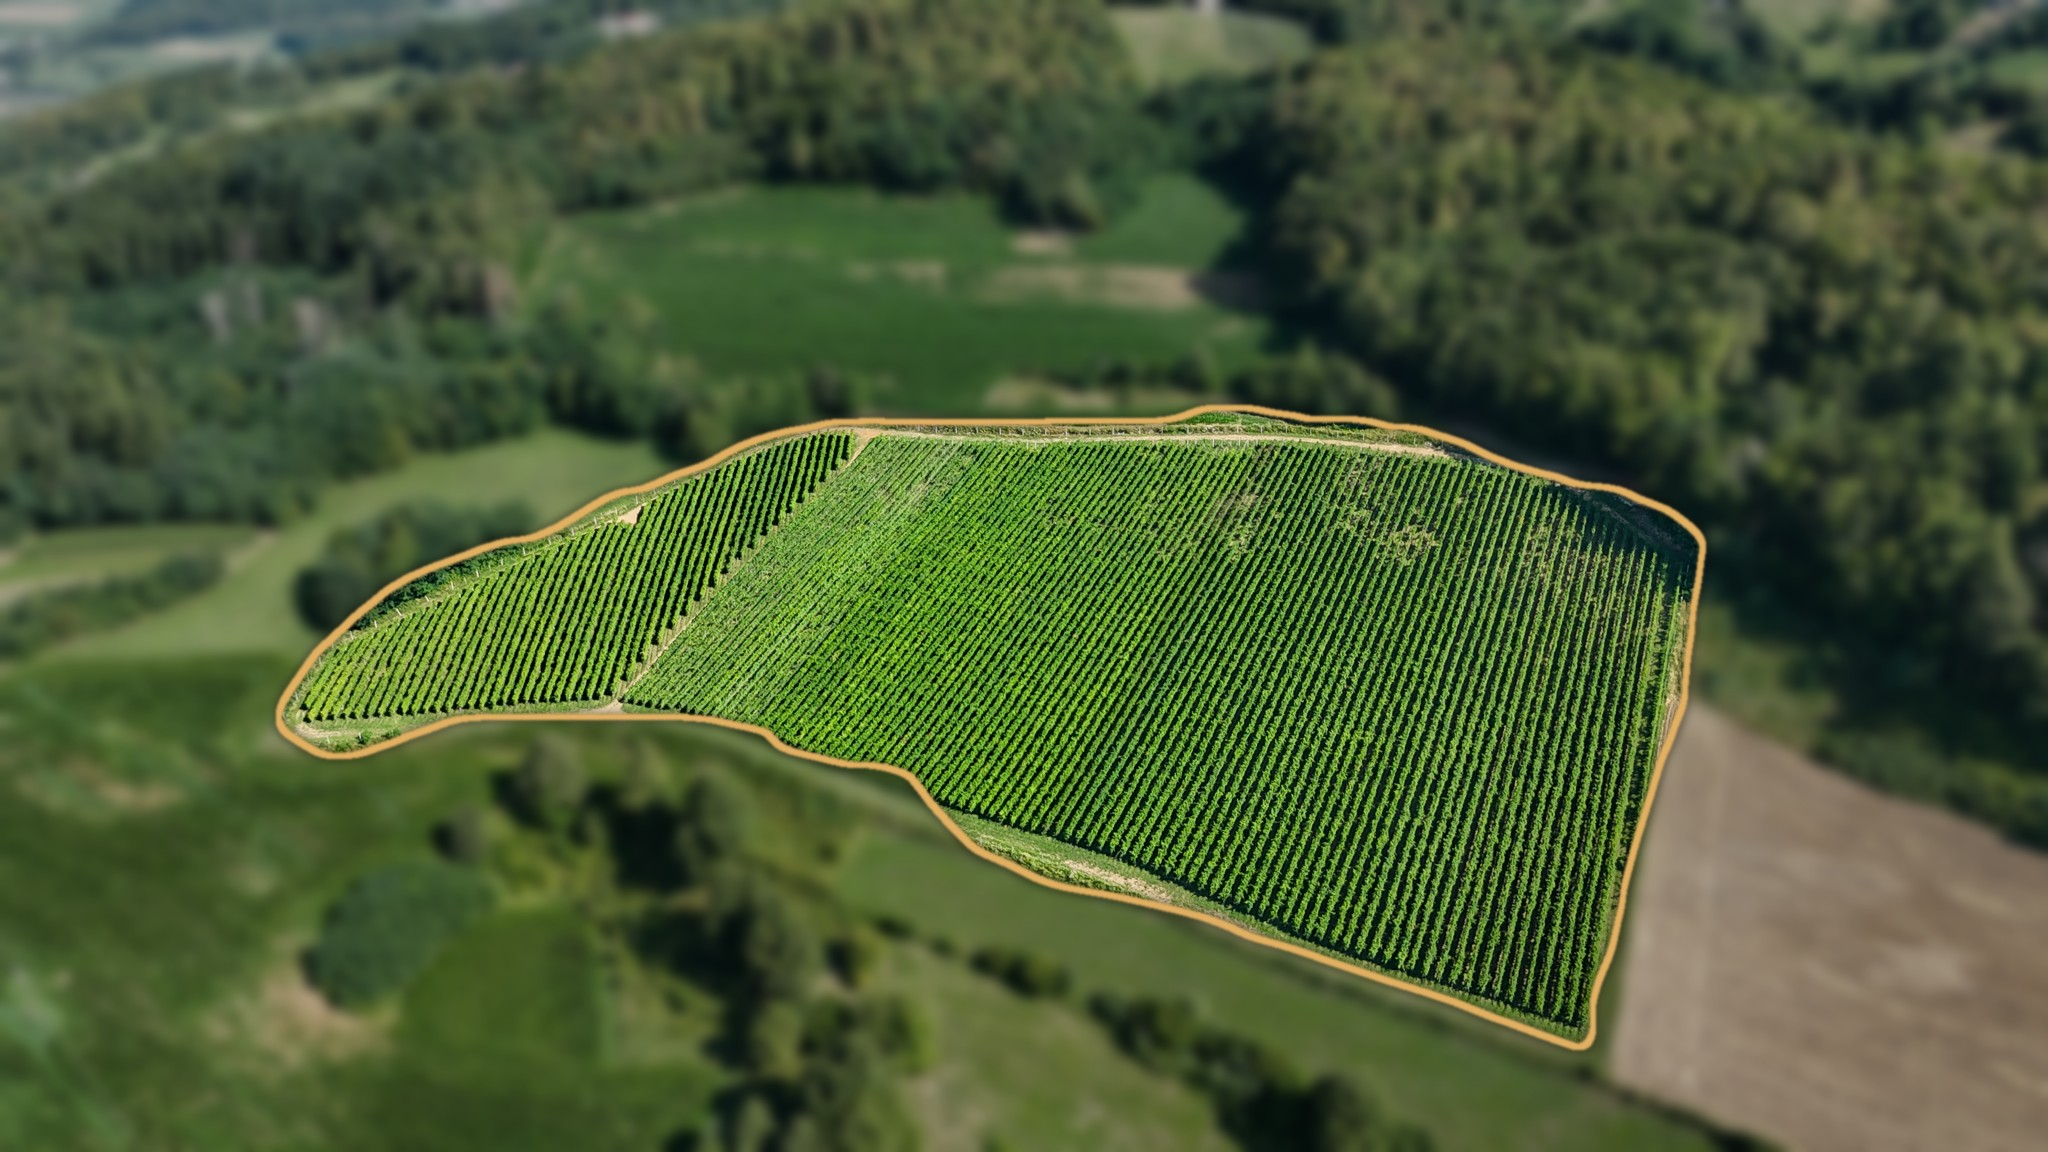
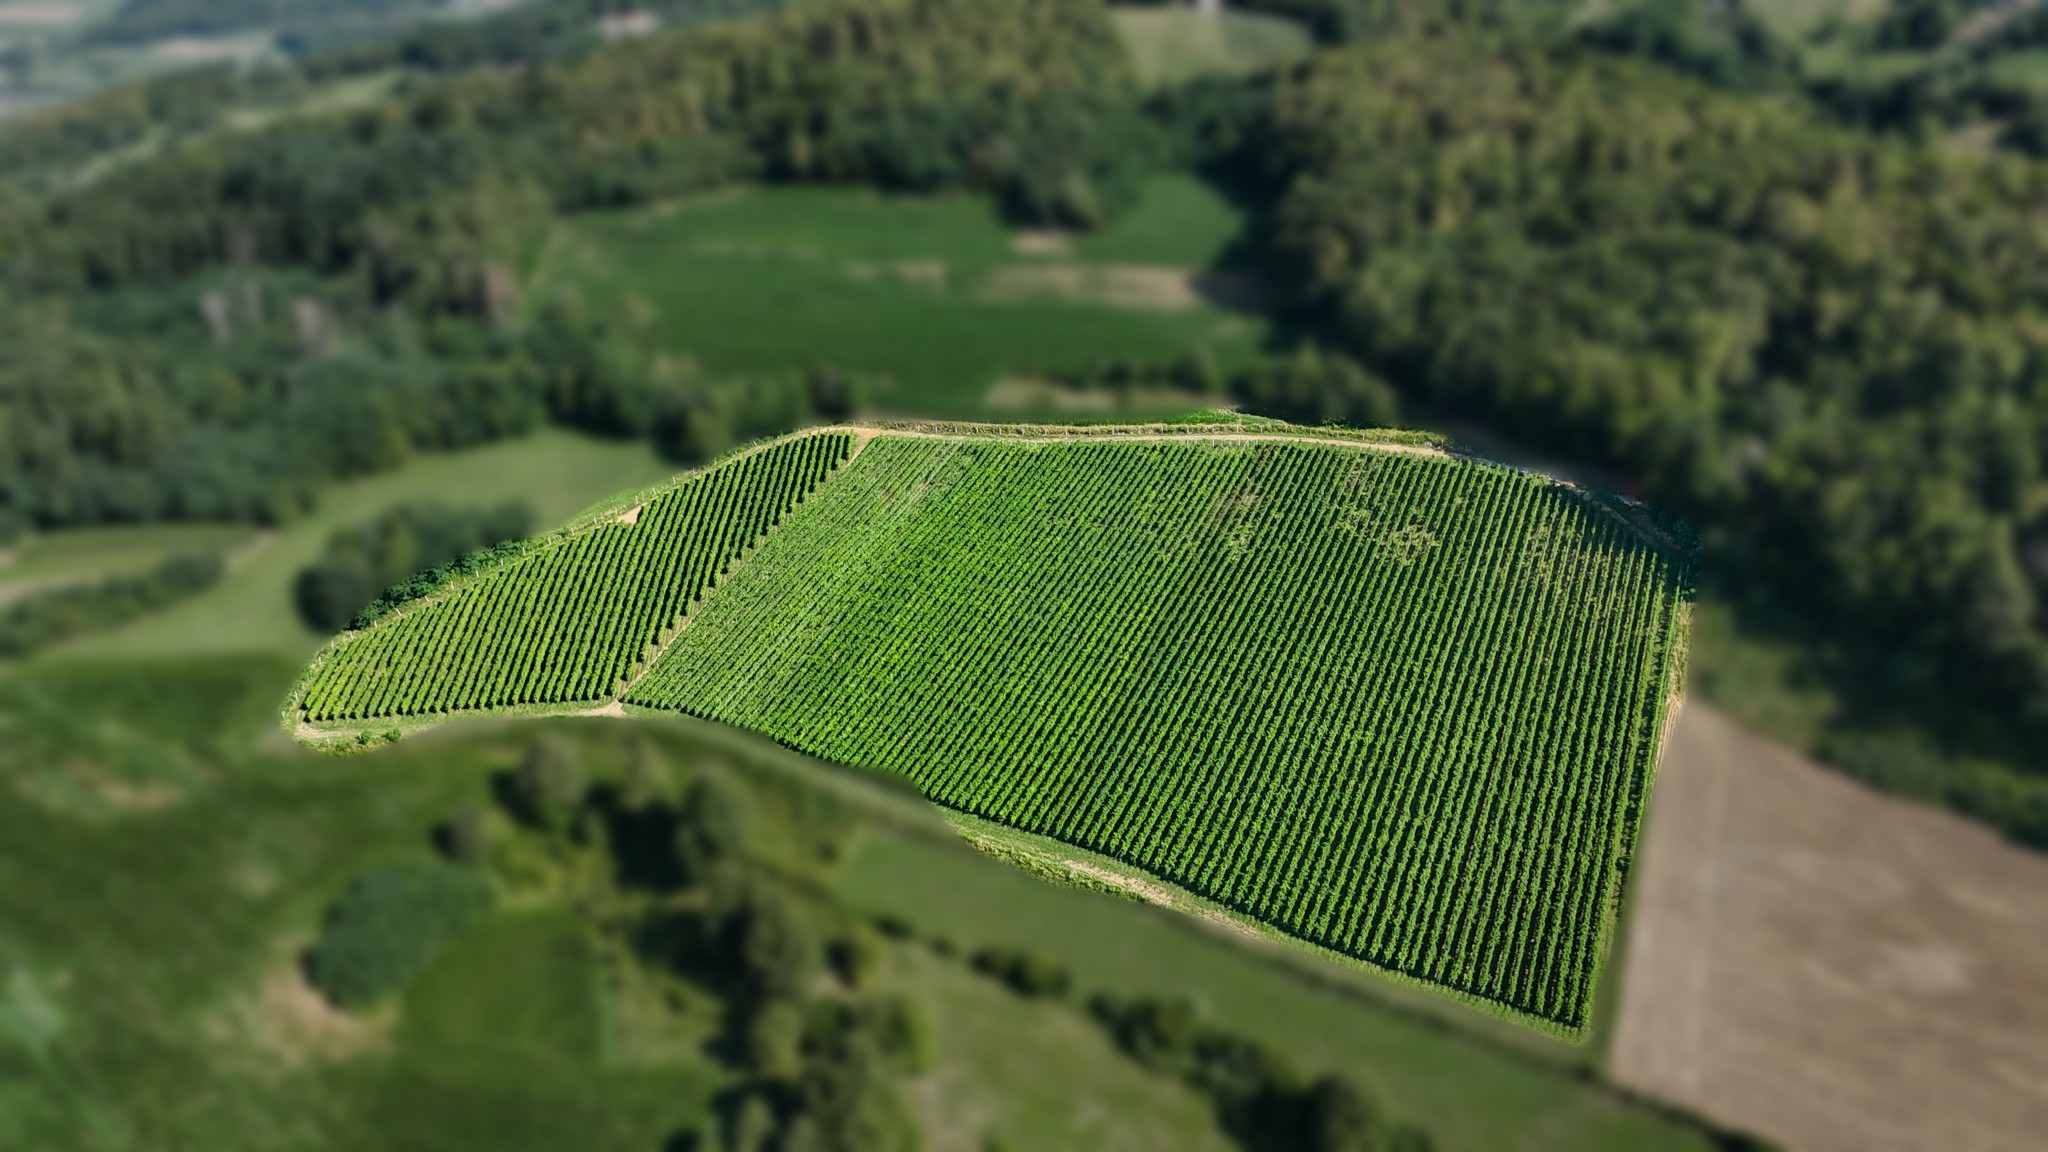
Vineyards: no gold line — each parcel comes into focus as its row scrolls into view

diff --git a/src/styles/site.css b/src/styles/site.css
@@ -3395,8 +3395,24 @@ a.meta-value {
 }
 
 .vineyard-figure .pic {
+  position: absolute;
+  inset: 0;
   width: 100%;
   height: 100%;
+}
+
+/*
+ * The focus pull: the soft layer sits underneath, the in-focus layer on top
+ * fades in with --focus (set by the page as the row scrolls into view), and
+ * both settle from a slight zoom. Without the script it is simply in focus.
+ */
+.has-focus-pull .vineyard-photo {
+  transform: scale(calc(1.06 - 0.06 * var(--focus, 0)));
+  will-change: transform;
+}
+
+.has-focus-pull .vineyard-photo--focus {
+  opacity: var(--focus, 0);
 }
 
 .vineyard-photo {
